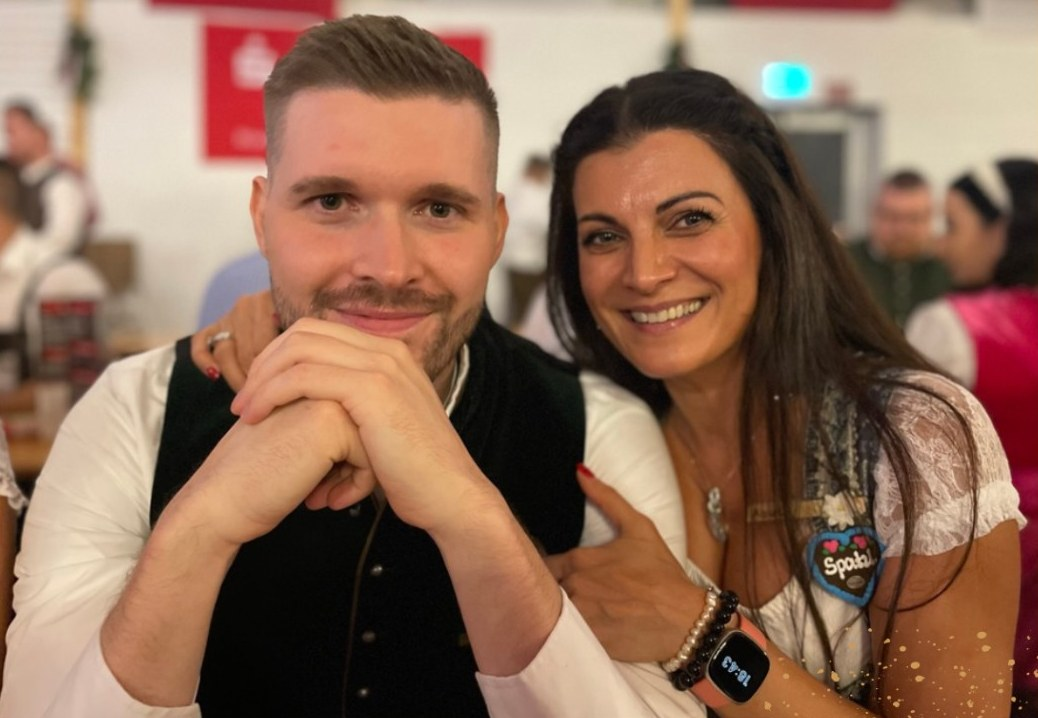
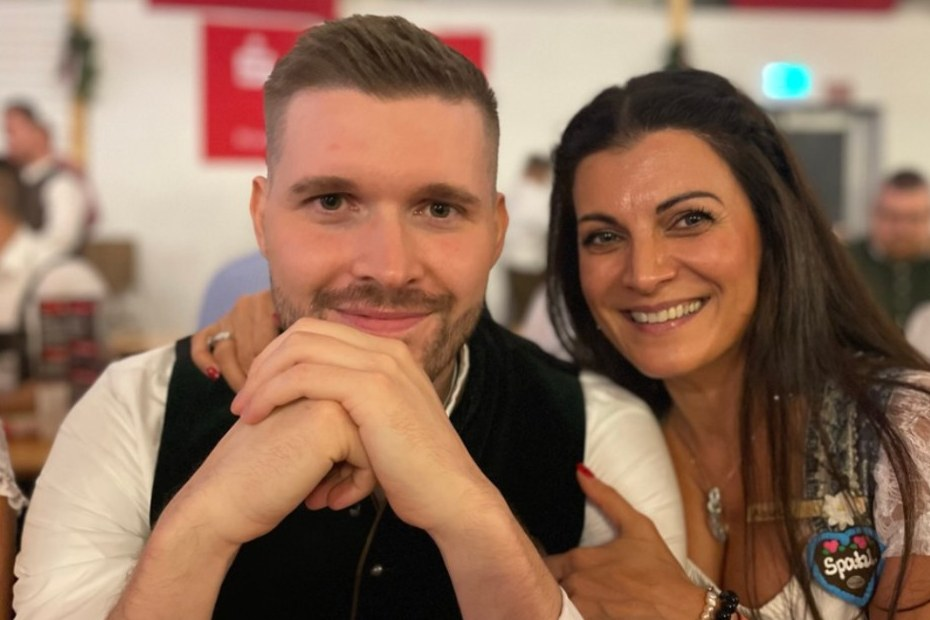
Auswertung nur mit aktuellen Antwortmöglichkeiten, Foto ohne Goldsprenkel

diff --git a/web/admin.js b/web/admin.js
@@ -200,7 +200,6 @@ function frageAuswertung(f, personen, einheiten) {
     const dabei = personen.filter(p => TEILNAHME_ARTEN.includes(p.teil) && hatWert(p.antworten?.[f.id]));
     if (auswahl) {
       const optionen = f.typ === 'ja_nein' ? ['Ja', 'Nein'] : [...f.optionen];
-      dabei.forEach(p => [].concat(p.antworten[f.id]).forEach(o => { if (!optionen.includes(o)) optionen.push(o); }));
       const n = (o, t) => dabei.filter(p => p.teil === t && treffer(p.antworten[f.id], o)).length;
       return el('div', {}, titel, el('div', { class: 'tabellen-huelle' }, el('table', { class: 'tabelle auswertung' },
         el('thead', {}, el('tr', {}, ['Antwort', 'Nur Nachm.', 'Nachm. + Abend', 'Nur Abend', 'Σ Nachmittag', 'Σ Abend', 'Gesamt'].map(t => el('th', {}, t)))),
@@ -215,7 +214,6 @@ function frageAuswertung(f, personen, einheiten) {
   const mitAntwort = einheiten.filter(x => hatWert(x.antworten?.[f.id]));
   if (auswahl) {
     const optionen = f.typ === 'ja_nein' ? ['Ja', 'Nein'] : [...f.optionen];
-    mitAntwort.forEach(x => [].concat(x.antworten[f.id]).forEach(o => { if (!optionen.includes(o)) optionen.push(o); }));
     return el('div', {}, titel, el('div', { class: 'kacheln' }, optionen.map(o =>
       el('div', { class: 'kachel' }, el('div', { class: 'zahl' }, String(mitAntwort.filter(x => treffer(x.antworten[f.id], o)).length)), el('div', { class: 'was' }, o)))),
       f.typ === 'ja_nein' ? antwortListe(mitAntwort.filter(x => x.antworten[f.id] === 'Ja').map(x => [x.name, 'Ja']), true) : null);
